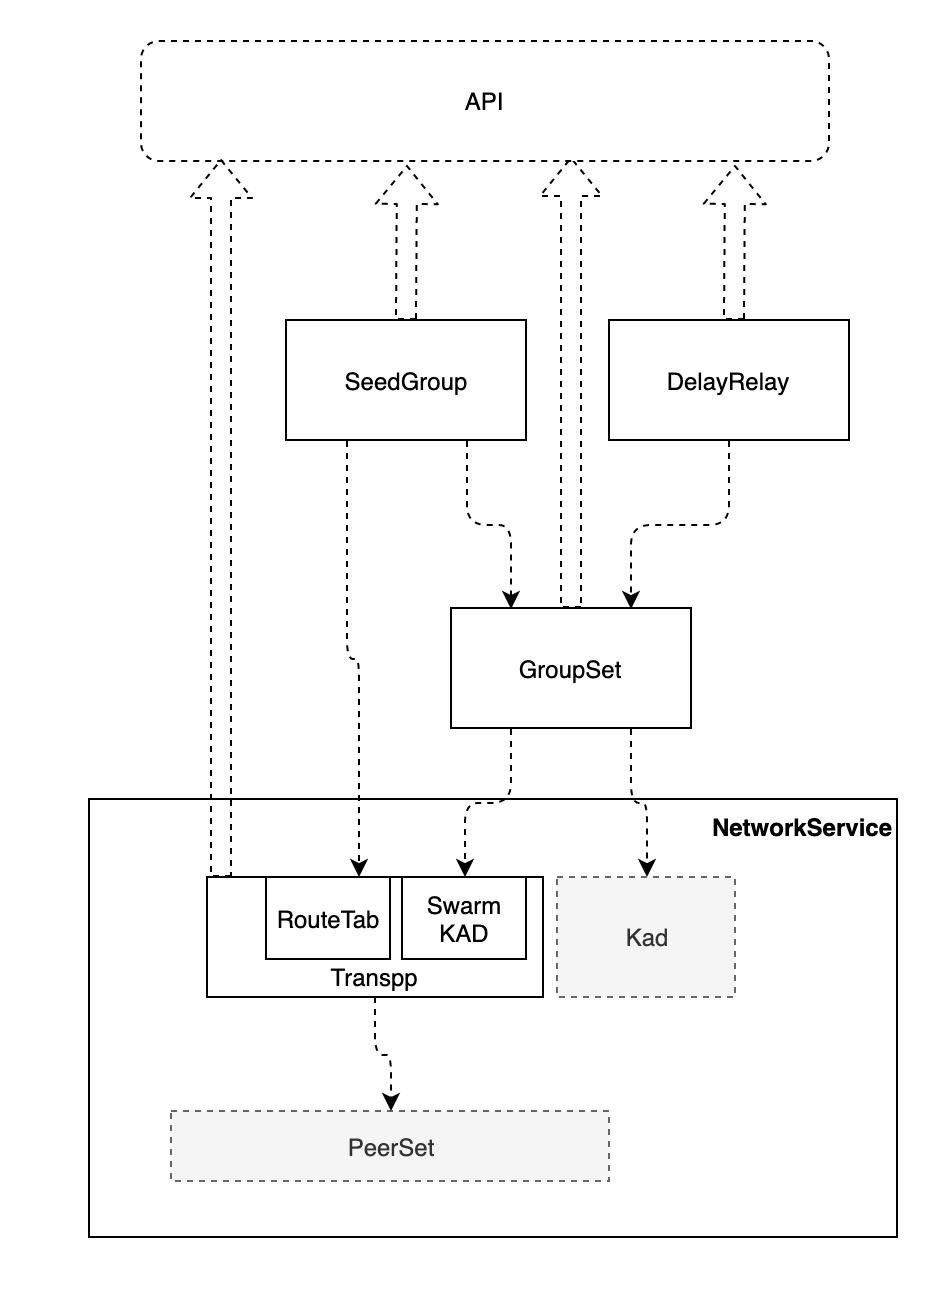
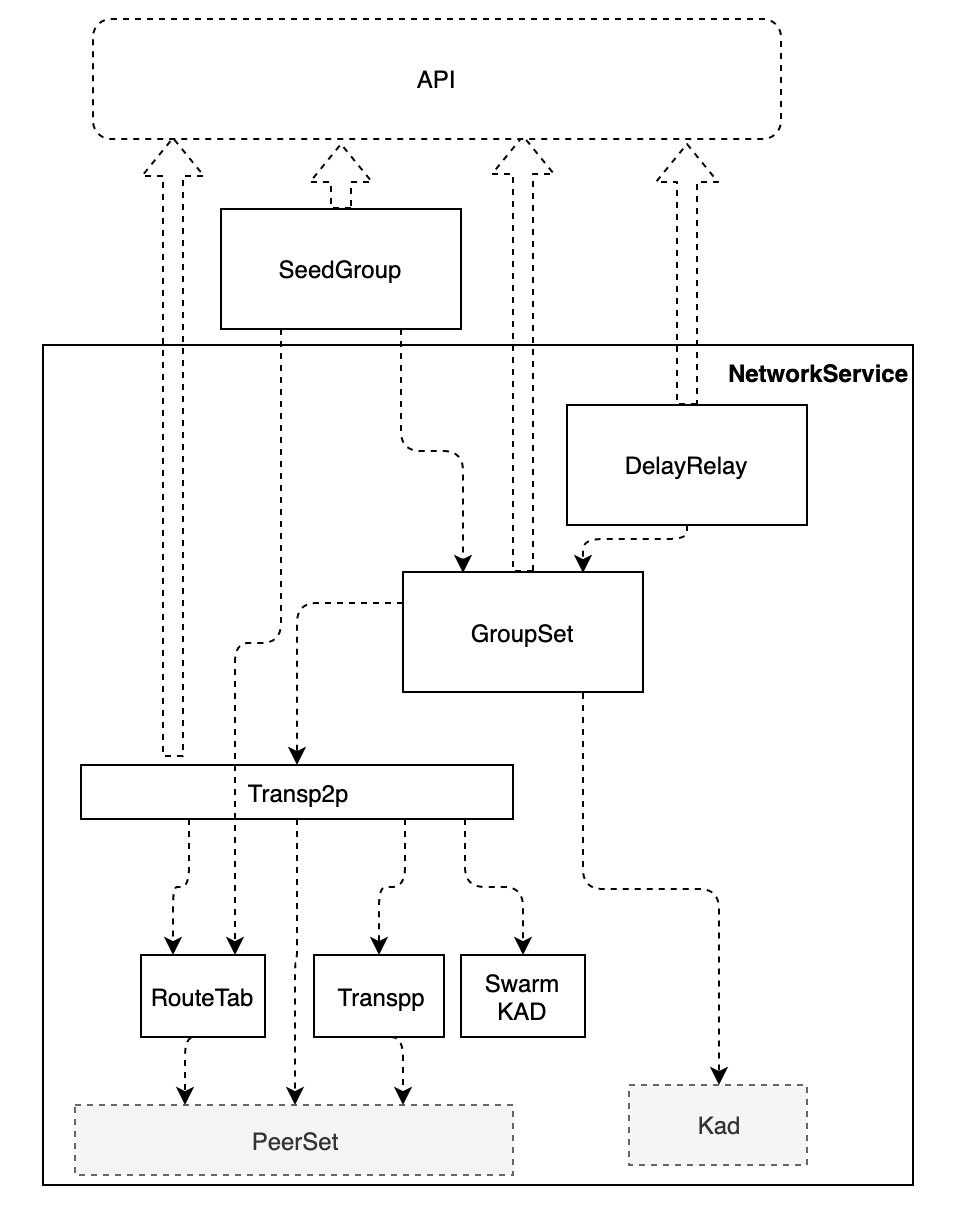
添加GroupSet的详细设计

diff --git a/设计说明/网络层设计/总体说明.md b/设计说明/网络层设计/总体说明.md
@@ -6,15 +6,20 @@
 
 # 改造方案
 ![](network_top.png)
- 改造后的网络层具有四大模块，其中
- 1. Transpp中有实现了具有路由功能的单播，与直接的数据发送相比，增加了两个功能：
-    1. 与DHT不同，transpp的路由是通过发现后记录在模块中的，实现了定路由，通过此方式提高转发的效率。
-    2. 通过push/pull方式发送数据的功能，源节点首先向目标邻节点发送哈希(push)，目标节点检查发现自身的没有该哈希对应的数据时，才去请求实际数据（pull)，这个方式与原始的方案相比，在一对多/多对一/多对的数据传输时，可以避免数据的重复传输。
- 2. GroupSet提供群组创建、加入、退出、组播等功能
- 3. SeedGroup实现了一类特定形式的分组，该分组由一个或多个seed节点作为源，形成分组，全节点可以动态加入此分组充当分发器，轻节点可以请求某些全节点加入此分组，同时可以实现客户端与seed节点之间的双向数据传输
+对系统改造后，形成一个新的NetworkBehaviour，对外提供NetworkService接口。总体框架中具有多个模块，
+1. 数据传输名称为Transp2p，这个模块又依赖三个子模块：其中
+    1. Transpp中有实现了具有路由功能的单播，与直接的数据发送相比，增加了两个功能：
+       1. 与DHT不同，transpp的路由是通过发现后记录在模块中的，实现了定路由，通过此方式提高转发的效率。
+       2. 通过push/pull方式发送数据的功能，源节点首先向目标邻节点发送哈希(push)，目标节点检查发现自身的没有该哈希对应的数据时，才去请求实际数据（pull)，这个方式与原始的方案相比，在一对多/多对一/多对的数据传输时，可以避免数据的重复传输。
+    2. RouteTab实现了路由表的管理，包括生成、失效、合并读取等
+    3. Swarm KAD提供了一个具有饱和度计算的KAD网络
+2. GroupSet提供群组创建、加入、退出、组播等功能
+3. DelayRelay提供了延时中继的功能
+4. SeedGroup实现了一类特定形式的分组，该分组由一个或多个seed节点作为源，形成分组，全节点可以动态加入此分组充当分发器，轻节点可以请求某些全节点加入此分组，同时可以实现客户端与seed节点之间的双向数据传输
+以上前三个模块组合成了一个NetworkService模块
 ## Transpp模块
 * Transpp模块用于通过DHT网络进行数据传输，在原有的DHT不定路由的基础上，实现定路由功能。
-* Transpp通过Kadmeli实现路由发现，可以实现节点之间的的无重复数据传输
+* Transpp通过Kadmelia实现路由发现，可以实现节点之间的的无重复数据传输
 ## GroupSet模块
 * GroupSet向上提供创建分组，加入分组、离开分组以及向分组广播数据的功能。
 * 一个节点可能会属于多个分组，因此从同一个节点可能会收到属于多个分组的数据，groupset需要地收到的数据进行分析，确认属于哪个组后向上传播
